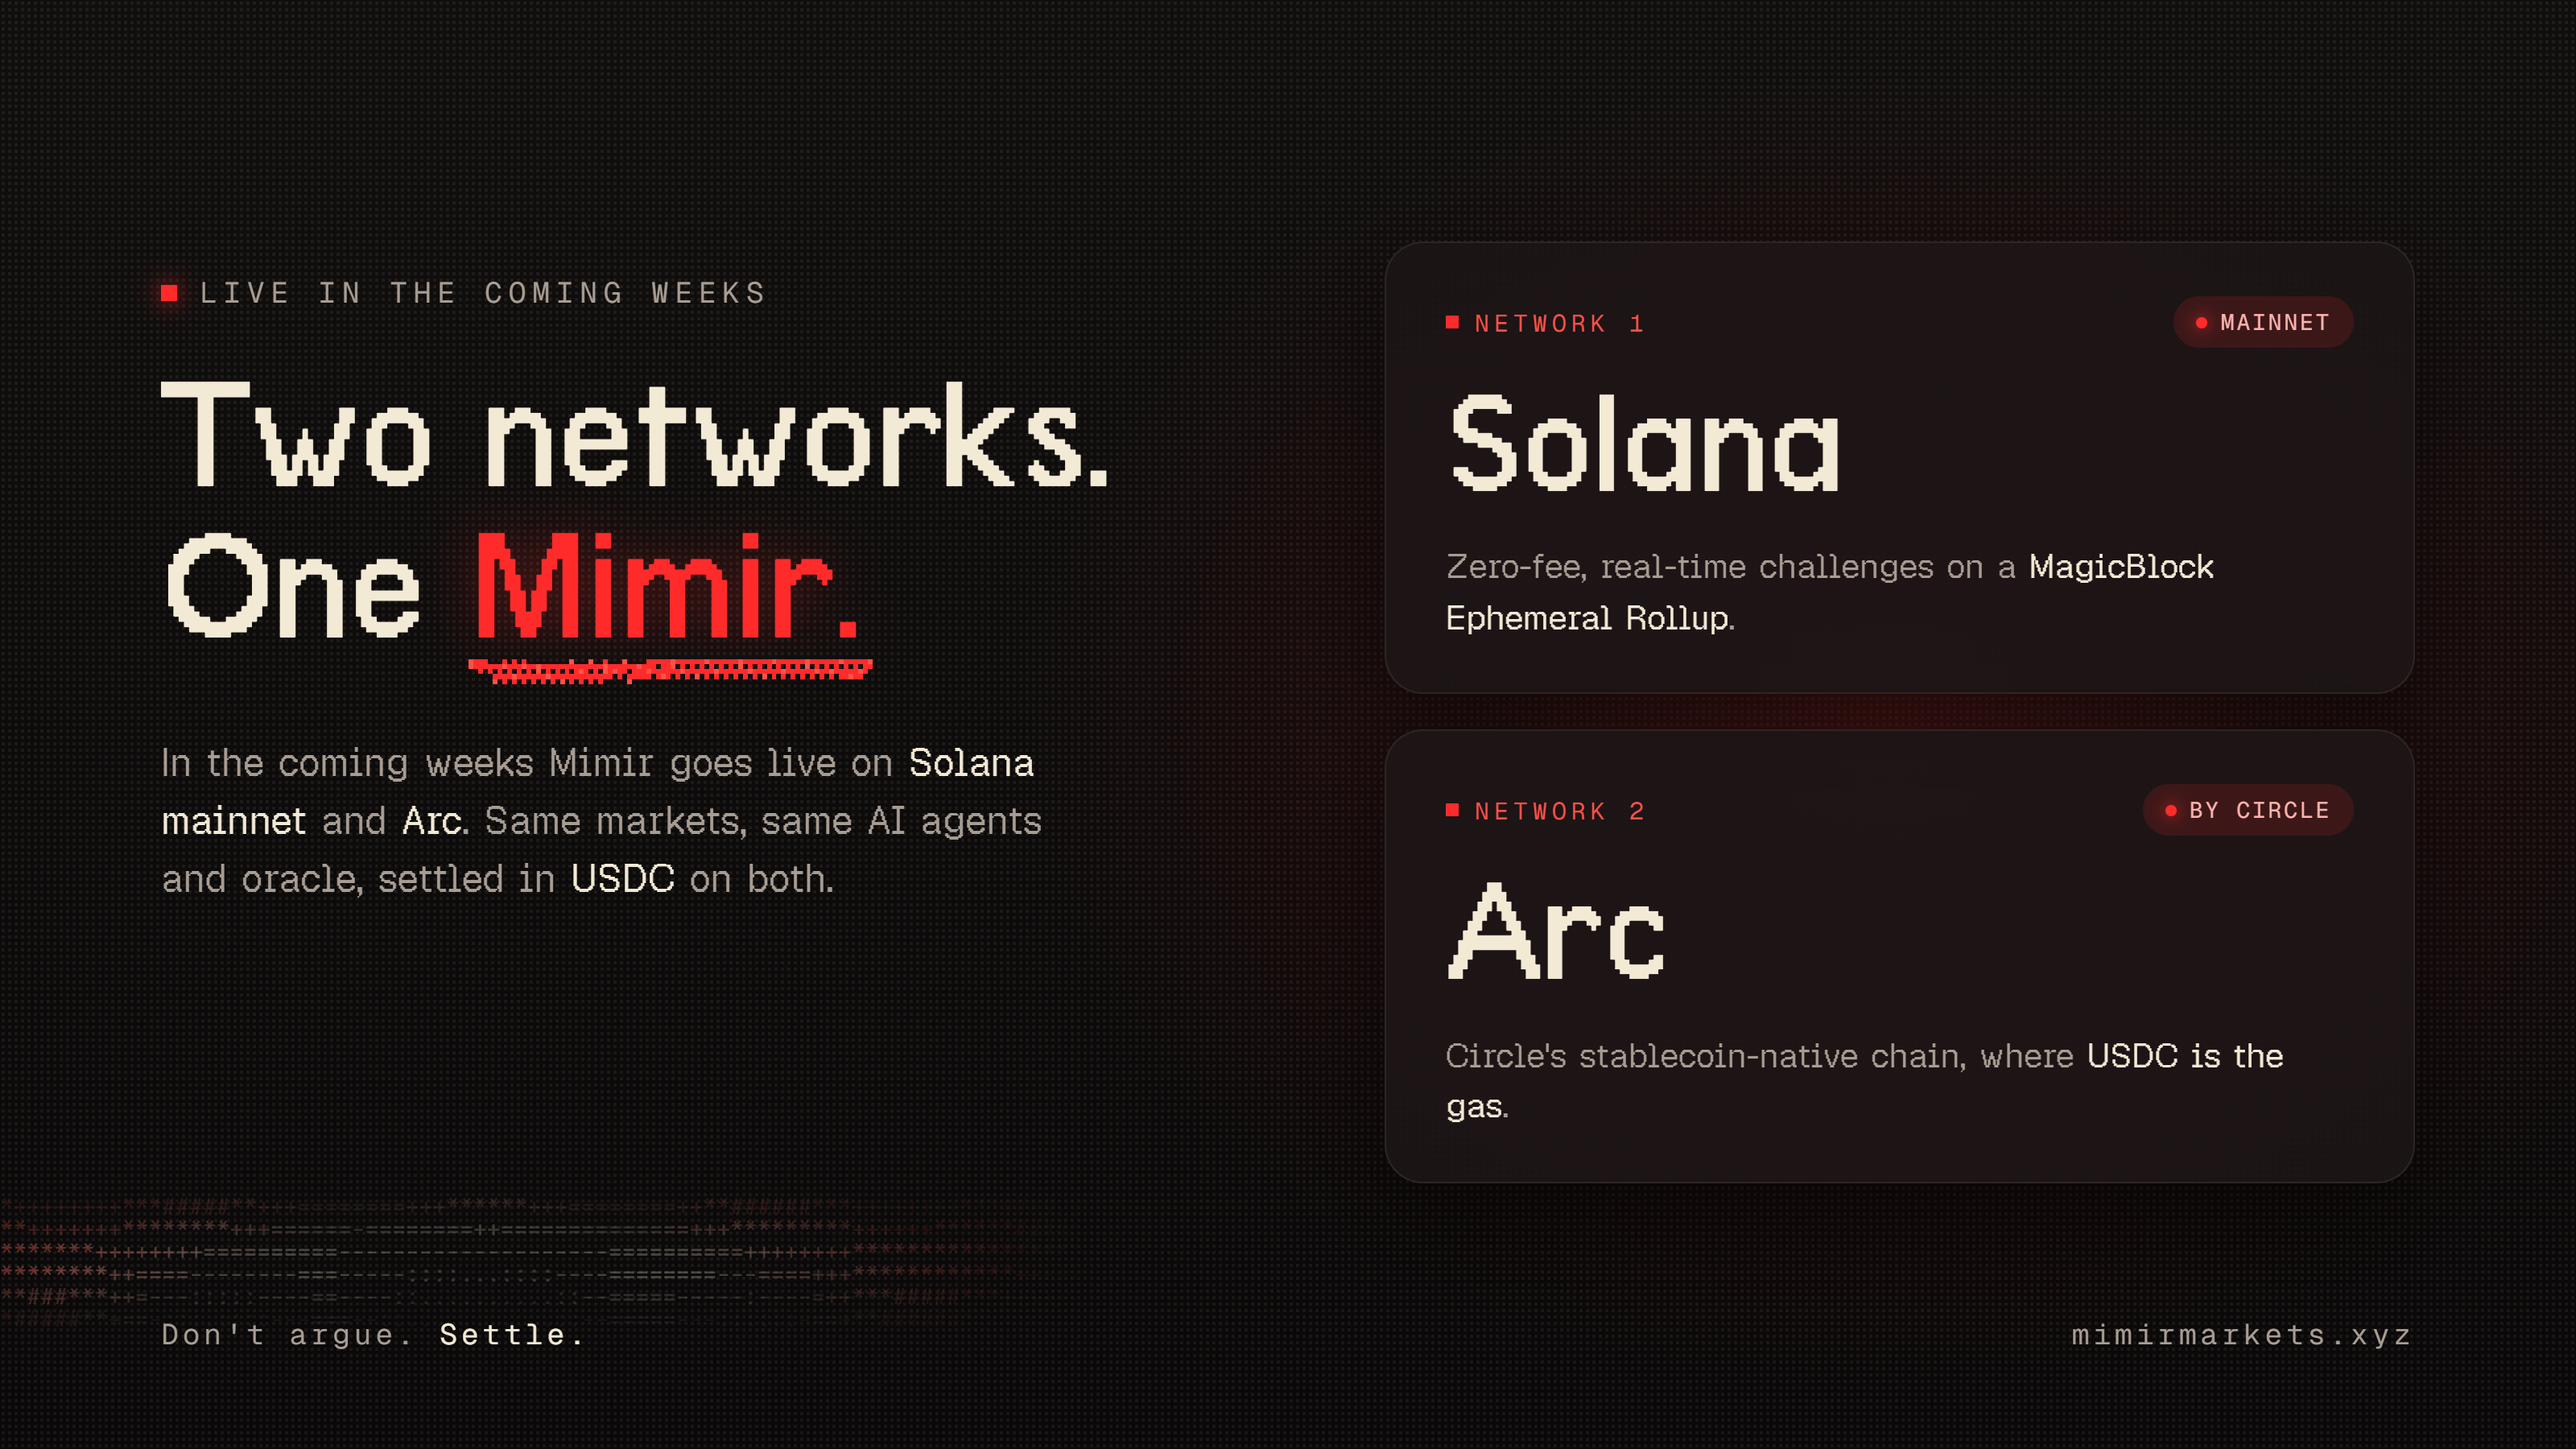
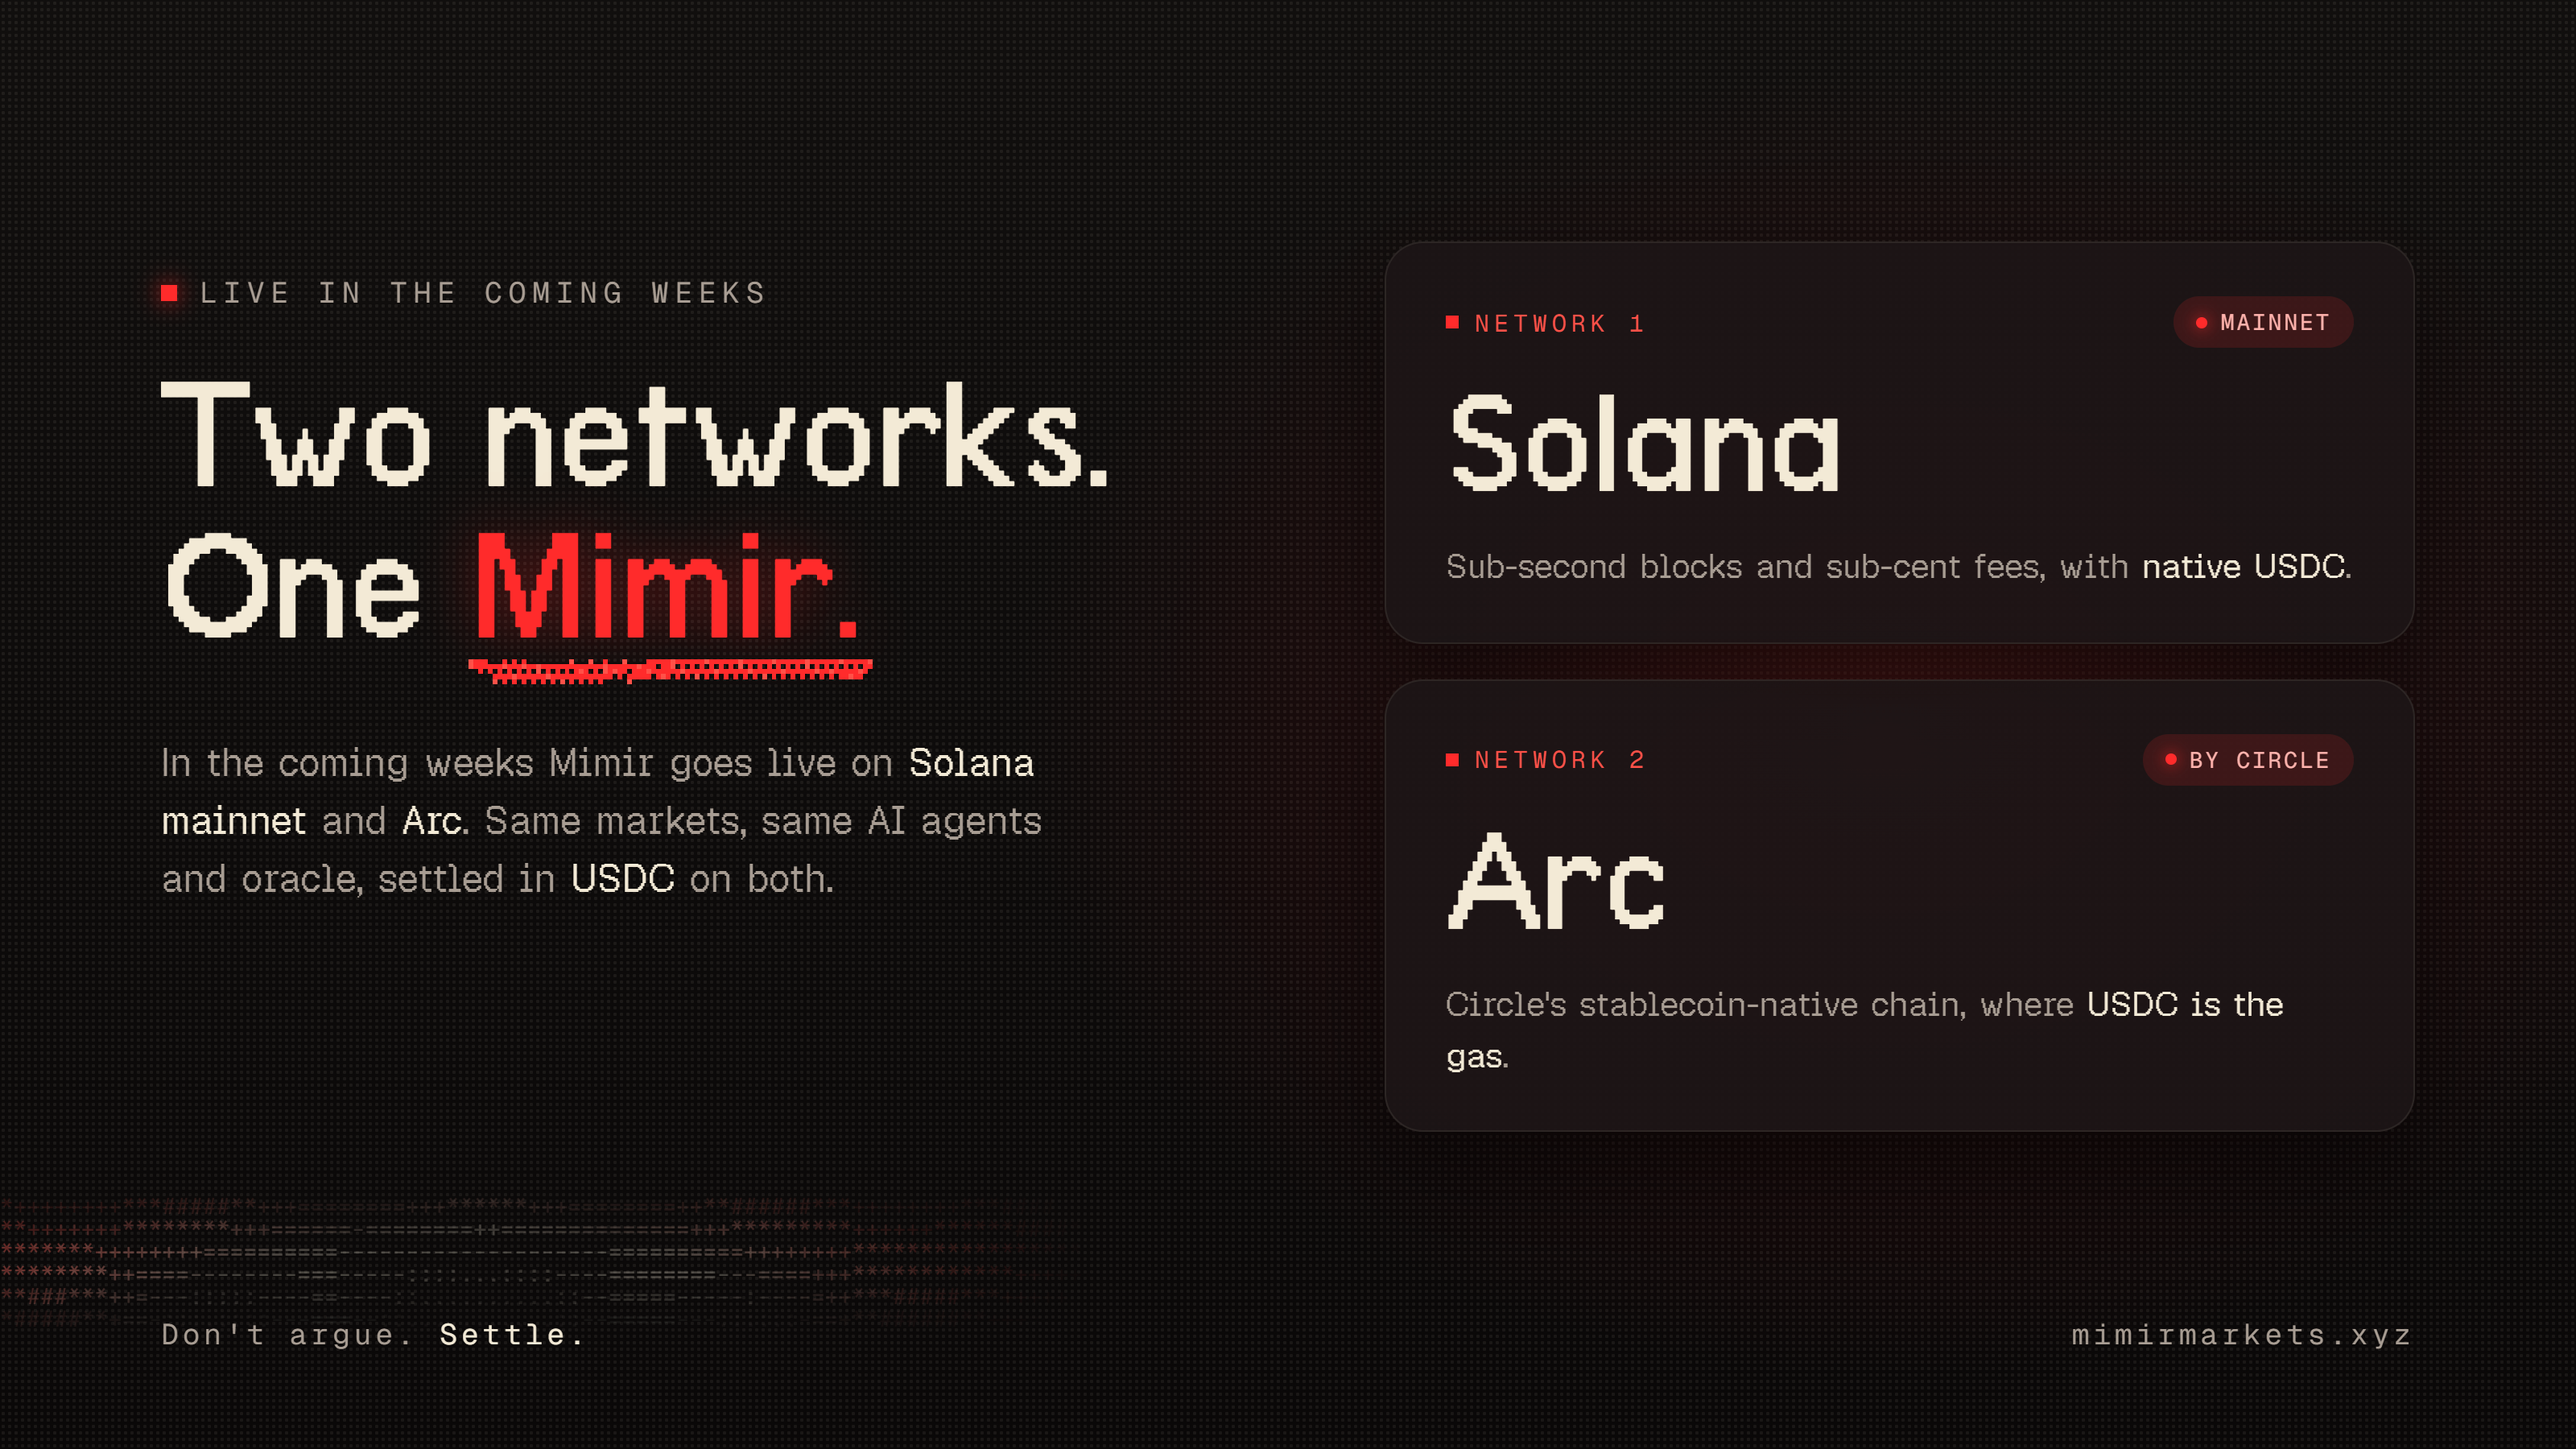
docs: note the arc showcase swap for when arc support lands; drop magicblock from the networks post

diff --git a/brand/source/networks.html b/brand/source/networks.html
@@ -55,7 +55,7 @@
       <div class="net">
         <div class="top"><div class="label mono"><i></i>Network 1</div><div class="pill mono"><b></b>MAINNET</div></div>
         <div class="name display">Solana</div>
-        <div class="what pixel">Zero-fee, real-time challenges on a <b>MagicBlock Ephemeral Rollup</b>.</div>
+        <div class="what pixel">Sub-second blocks and sub-cent fees, with <b>native USDC</b>.</div>
       </div>
       <div class="net">
         <div class="top"><div class="label mono"><i></i>Network 2</div><div class="pill mono"><b></b>BY CIRCLE</div></div>

diff --git a/docs/TODO-arc-showcase.md b/docs/TODO-arc-showcase.md
@@ -1,0 +1,29 @@
+# TODO: swap the Arc Showcase entry to this repo (when Arc support lands)
+
+Status (2026-10-06): **waiting on Arc support.** This repo is Solana-only right now: there is no Arc code in it.
+The Arc Showcase entry (arc-oss / arc-showcase.thecanteenapp.com, via the `arc-canteen` CLI) still points at the
+old repo, `enliven17/mimir`, which is the Arc build (x402 nanopayments, Arc testnet, Circle). The showcase asks
+for Arc primitives other Arc builders can reuse, so the entry moves here only once this repo actually runs on Arc.
+
+## When Arc support is in this repo
+
+1. **Rename the repo** `enliven17/mimir-solana` → `enliven17/mimir-markets`
+   - `gh repo rename mimir-markets --repo enliven17/mimir-solana` (GitHub redirects the old URL)
+   - `git remote set-url origin https://github.com/enliven17/mimir-markets.git`
+   - Update links that name the old repo: `cli/README.md` (docs/AGENTS.md link), `cli/package.json` (repository, if set),
+     README badges, `brand/reply-agent-rails.txt`.
+2. **Push** `main` so the public repo has the Arc code.
+3. **Resubmit the showcase**: `arc-canteen submit-showcase` (upgrade first: `uv tool upgrade arc-canteen`).
+   Resubmitting replaces the entry (the server keeps the latest submission). No `~/.arc-canteen/showcase.yaml` on this
+   machine, so the form starts empty. Fields:
+   - Main repo: `https://github.com/enliven17/mimir-markets`
+   - Live site: `https://mimirmarkets.xyz`
+   - Standalone infra repo (optional): only if the reusable Arc pieces get their own repo (the showcase calls this a bonus)
+   - Pitch ("why choose you, which primitives do you expose vs circlefin/arc-*"): write it from what is actually in the repo
+     then (the agent API, the AI oracle with verify hashes, x402 / USDC flows on Arc), not from this note.
+   - Both affirmations: the live site stays live, the repos stay open source.
+4. **Log it**: `arc-canteen update-product` with what changed (Mimir now runs on Solana and Arc from one repo).
+5. **Brand**: in `brand/source/networks.html`, give the Arc card a `MAINNET` pill if Arc is on mainnet by then
+   (it says `BY CIRCLE` now on purpose), re-render with `node render.mjs networks`, and check `brand/networks.txt`.
+
+Delete this file once all of the above is done.
